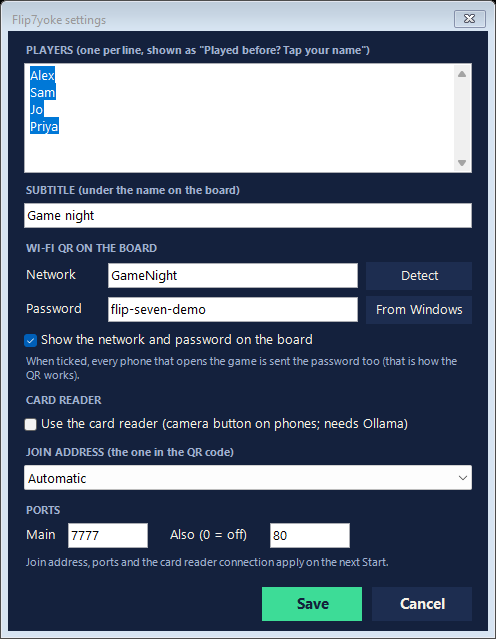
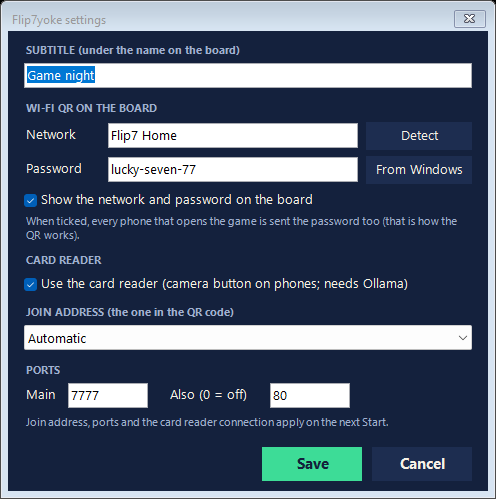
Played before? lists the people in saved games; no names setting

diff --git a/tests/game.test.js b/tests/game.test.js
@@ -235,12 +235,12 @@ test('store: a write that fails is reported, keeps the old file, and clears on t
 test('config: bad values fall back to defaults with a note; duplicates and port clashes handled', () => {
   const { validate, DEFAULTS } = require('../lib/config.js');
   const { config, notes } = validate({
-    players: ['Ryan', ' ryan ', '', 'Gareth', 42], subtitle: '  Thursday  ',
+    players: ['Alex', 'Sam'], subtitle: '  Thursday  ',
     wifi: { ssid: 'Home', password: 'pw', auth: 'WPA3', showOnBoard: 'yes' },
     cardReader: { enabled: 'maybe', url: 'ftp://x' }, network: { address: '300.1.1.1' },
     ports: { main: 8080, also: 8080 },
   });
-  assert.deepStrictEqual(config.players, ['Ryan', 'Gareth']);
+  assert.strictEqual(config.players, undefined); // an older file's list is ignored, without a note
   assert.strictEqual(config.subtitle, 'Thursday');
   assert.strictEqual(config.wifi.auth, 'WPA');
   assert.strictEqual(config.wifi.showOnBoard, true);
@@ -259,31 +259,58 @@ test('config: broken JSON keeps the last good settings; .env moves into config.j
   const c = openConfig(dir, { log: () => {}, watch: false });
   assert.strictEqual(c.config.wifi.ssid, 'Home');
   assert.ok(fs.existsSync(path.join(dir, '.env.migrated')) && !fs.existsSync(path.join(dir, '.env')));
-  fs.writeFileSync(c.file, JSON.stringify({ players: ['Rita'] }));
-  assert.deepStrictEqual(c.reload().players, ['Rita']);
-  fs.writeFileSync(c.file, '{ "players": [ "Rita", }');
+  fs.writeFileSync(c.file, JSON.stringify({ subtitle: 'Friday' }));
+  assert.strictEqual(c.reload().subtitle, 'Friday');
+  fs.writeFileSync(c.file, '{ "subtitle": "Sat", }');
   c.reload();
   assert.match(c.error, /config\.json has an error/);
-  assert.deepStrictEqual(c.config.players, ['Rita']);
+  assert.strictEqual(c.config.subtitle, 'Friday');
 });
 
-test('server: names, subtitle and Wi-Fi come from config.json and change live; Wi-Fi only when shown on board', async () => {
+test('server: subtitle and Wi-Fi come from config.json and change live; Wi-Fi only when shown on board', async () => {
   const dir = tmpDir();
-  fs.writeFileSync(path.join(dir, 'config.json'), JSON.stringify({ players: ['Carlo'], subtitle: 'Friday', wifi: { ssid: 'Home', password: 'pw', showOnBoard: false } }));
+  fs.writeFileSync(path.join(dir, 'config.json'), JSON.stringify({ players: ['Ignored'], subtitle: 'Friday', wifi: { ssid: 'Home', password: 'pw', showOnBoard: false } }));
   const g = await startGame(dir);
   try {
     let i = await (await fetch(g.url + '/api/info')).json();
-    assert.deepStrictEqual(i.names, ['Carlo']);
+    assert.deepStrictEqual(i.names, []); // no defaults: nobody has played yet
     assert.strictEqual(i.subtitle, 'Friday');
     assert.strictEqual(i.wifi, null);
     assert.strictEqual(i.reader, 'off');
     const before = (await getState(g.url)).configVersion;
-    fs.writeFileSync(path.join(dir, 'config.json'), JSON.stringify({ players: ['Carlo', 'Jarvis'], wifi: { ssid: 'Home', password: 'p;w' } }));
-    for (let n = 0; n < 40 && i.names.length < 2; n++) { await wait(100); i = await (await fetch(g.url + '/api/info')).json(); }
-    assert.deepStrictEqual(i.names, ['Carlo', 'Jarvis']);
+    fs.writeFileSync(path.join(dir, 'config.json'), JSON.stringify({ subtitle: 'Saturday', wifi: { ssid: 'Home', password: 'p;w' } }));
+    for (let n = 0; n < 40 && i.subtitle !== 'Saturday'; n++) { await wait(100); i = await (await fetch(g.url + '/api/info')).json(); }
+    assert.strictEqual(i.subtitle, 'Saturday');
     // open pages are told: the version in every update goes up, so they fetch /api/info again
     assert.ok((await getState(g.url)).configVersion > before);
     assert.strictEqual(i.wifi.qr, String.raw`WIFI:T:WPA;S:Home;P:p\;w;;`);
+  } finally { await g.stop(); }
+});
+
+test('server: "Played before?" names are the people in saved games, newest game first, and update live', async () => {
+  const dir = tmpDir();
+  const g = await startGame(dir);
+  const names = async () => (await (await fetch(g.url + '/api/info')).json()).names;
+  const play = async who => {
+    const ids = [];
+    for (const name of who) ids.push((await post(g.url, 'addPlayer', { name })).body.id);
+    for (const id of ids) await post(g.url, 'setEntry', { id, entry: { cards: [5], mods: [] } });
+    for (let n = 0; n < 40 && !(await getState(g.url)).rounds.length; n++) await wait(100);
+    await post(g.url, 'newGame', {});
+  };
+  try {
+    assert.deepStrictEqual(await names(), []);
+    await play(['Alex', 'Sam']);
+    let v = (await getState(g.url)).configVersion;
+    assert.deepStrictEqual((await names()).sort(), ['Alex', 'Sam']);
+    await play(['alex', 'Sam', 'Jo']); // New game keeps the players; "alex" is the same player as Alex
+    assert.ok((await getState(g.url)).configVersion > v); // open phones fetch the names again
+    assert.deepStrictEqual((await names()).sort(), ['Alex', 'Jo', 'Sam']); // each name once
+    const h = await (await fetch(g.url + '/api/history')).json();
+    v = (await getState(g.url)).configVersion;
+    await post(g.url, 'deleteHistory', { id: h[0].id });
+    assert.deepStrictEqual((await names()).sort(), ['Alex', 'Sam']);
+    assert.ok((await getState(g.url)).configVersion > v);
   } finally { await g.stop(); }
 });
 

diff --git a/tests/control-window.test.js b/tests/control-window.test.js
@@ -22,10 +22,12 @@ function selftest(dir, values) {
 
 test('Settings Save writes config.json that the server accepts as is', { skip: process.platform !== 'win32' }, () => {
   const dir = tmpDir();
-  const r = selftest(dir, { players: ['Ryan', 'Rita'], subtitle: 'Friday', ssid: 'Home', password: 'pw', showOnBoard: false, reader: false, main: 7790, also: 0 });
+  // An older file's players list is dropped on Save: the names offered come from saved games.
+  fs.writeFileSync(path.join(dir, 'config.json'), JSON.stringify({ players: ['Alex', 'Sam'], subtitle: 'Old' }));
+  const r = selftest(dir, { subtitle: 'Friday', ssid: 'Home', password: 'pw', showOnBoard: false, reader: false, main: 7790, also: 0 });
   assert.deepStrictEqual(r, { code: 0, out: 'SAVED' });
   const saved = JSON.parse(fs.readFileSync(path.join(dir, 'config.json'), 'utf8'));
-  assert.deepStrictEqual(saved.players, ['Ryan', 'Rita']); // a list even with PowerShell 5.1's JSON
+  assert.strictEqual(saved.players, undefined);
   assert.strictEqual(saved.subtitle, 'Friday');
   assert.deepStrictEqual(saved.wifi, { ssid: 'Home', password: 'pw', auth: 'WPA', showOnBoard: false });
   assert.strictEqual(saved.cardReader.enabled, false);
@@ -33,10 +35,10 @@ test('Settings Save writes config.json that the server accepts as is', { skip: p
   const { validate } = require('../lib/config.js');
   assert.deepStrictEqual(validate(saved).notes, []); // nothing the server would have to correct
 
-  const one = selftest(dir, { players: ['Solo'] });
-  assert.strictEqual(one.code, 0);
-  assert.deepStrictEqual(JSON.parse(fs.readFileSync(path.join(dir, 'config.json'), 'utf8')).players, ['Solo']);
-  assert.ok(fs.existsSync(path.join(dir, 'config.json.bak')));
+  const again = selftest(dir, { subtitle: 'Saturday' });
+  assert.strictEqual(again.code, 0);
+  assert.strictEqual(JSON.parse(fs.readFileSync(path.join(dir, 'config.json'), 'utf8')).subtitle, 'Saturday');
+  assert.strictEqual(JSON.parse(fs.readFileSync(path.join(dir, 'config.json.bak'), 'utf8')).subtitle, 'Friday');
 });
 
 // An installed copy: the exe and a version-stamped Flip7yoke.ps1 side by side, as the installer lays them out.
@@ -83,12 +85,11 @@ test('installed copy with its record missing: status still sees it, Stop ends it
   assert.strictEqual(ps(copy, 'stop').code, 0); // nothing left: a clean "stopped"
 });
 
-test('Settings Save refuses duplicate names and clashing ports, and leaves the file alone', { skip: process.platform !== 'win32' }, () => {
+test('Settings Save refuses clashing ports, and leaves the file alone', { skip: process.platform !== 'win32' }, () => {
   const dir = tmpDir();
-  fs.writeFileSync(path.join(dir, 'config.json'), JSON.stringify({ players: ['Keep'] }));
-  const r = selftest(dir, { players: ['Ryan', 'ryan'], main: 8000, also: 8000 });
+  fs.writeFileSync(path.join(dir, 'config.json'), JSON.stringify({ subtitle: 'Keep' }));
+  const r = selftest(dir, { subtitle: 'Changed', main: 8000, also: 8000 });
   assert.strictEqual(r.code, 1);
-  assert.match(r.out, /listed twice/);
   assert.match(r.out, /must be different/);
-  assert.deepStrictEqual(JSON.parse(fs.readFileSync(path.join(dir, 'config.json'), 'utf8')).players, ['Keep']);
+  assert.strictEqual(JSON.parse(fs.readFileSync(path.join(dir, 'config.json'), 'utf8')).subtitle, 'Keep');
 });

diff --git a/server.js b/server.js
@@ -87,7 +87,8 @@ async function start(options = {}) {
   const clients = new Set();
   const saveError = () => saveErrors.state || saveErrors.history || null;
   // What every page needs besides the game itself, sent with each update. configVersion goes up whenever
-  // config.json is reloaded, so open pages fetch /api/info again (names, subtitle, Wi-Fi) without a reload.
+  // config.json is reloaded or the saved games change, so open pages fetch /api/info again (past players'
+  // names, subtitle, Wi-Fi) without a reload.
   let configVersion = 1;
   // Set by the supervisor when it can't update server.pid.json (lib/supervisor.js), so the control window can say.
   let recordError = null;
@@ -103,7 +104,7 @@ async function start(options = {}) {
     broadcast();
   }
 
-  // Live settings: players, subtitle, Wi-Fi and the card reader on/off. The rest waits for the next Start.
+  // Live settings: subtitle, Wi-Fi and the card reader on/off. The rest waits for the next Start.
   function applyConfig() {
     reader.setEnabled(o.reader && C().cardReader.enabled !== false);
     broadcast();
@@ -133,6 +134,17 @@ async function start(options = {}) {
       })),
     });
     historyStore.save(history);
+    configVersion++; // the past players' names changed
+  }
+
+  // "Played before? Tap your name": everyone in a saved game, most recent game first, each name once.
+  function pastPlayers() {
+    const seen = new Set(), out = [];
+    for (const g of history) for (const p of g.players || []) {
+      const key = String(p.name).toLowerCase();
+      if (p.name && !seen.has(key)) { seen.add(key); out.push(p.name); }
+    }
+    return out;
   }
 
   const actions = {
@@ -196,7 +208,7 @@ async function start(options = {}) {
     deleteHistory({ id }) {
       const before = history.length;
       history = history.filter(g => g.id !== id);
-      if (history.length !== before) historyStore.save(history);
+      if (history.length !== before) { historyStore.save(history); configVersion++; }
     },
   };
 
@@ -303,7 +315,7 @@ async function start(options = {}) {
       return json(res, 200, {
         urls: lanUrls(), joinUrl: joinUrl(),
         addresses: join.all.map(a => ({ ...a, url: urlFor(a.address) })),
-        names: C().players, subtitle: C().subtitle, wifi: wifiInfo(C().wifi), reader: reader.state,
+        names: pastPlayers(), subtitle: C().subtitle, wifi: wifiInfo(C().wifi), reader: reader.state,
       }, { 'Cache-Control': 'no-cache' });
     }
     if (url === '/api/action' && req.method === 'POST') {

diff --git a/lib/config.js b/lib/config.js
@@ -8,7 +8,6 @@ const path = require('path');
 const VERSION = 1;
 const DEFAULTS = {
   version: VERSION,
-  players: [],
   subtitle: '',
   wifi: { ssid: '', password: '', auth: 'WPA', showOnBoard: true },
   cardReader: { enabled: 'auto', model: 'qwen3-vl:4b-instruct', url: 'http://127.0.0.1:11434' },
@@ -30,19 +29,7 @@ function validate(raw) {
   const bad = (key, why) => notes.push(`${key}: ${why}; using the default`);
   const sect = name => (isObj(raw[name]) ? raw[name] : (raw[name] !== undefined && bad(name, 'not an object'), {}));
 
-  if (raw.players !== undefined) {
-    if (!Array.isArray(raw.players)) bad('players', 'not a list');
-    else {
-      const seen = new Set();
-      for (const p of raw.players) {
-        const name = typeof p === 'string' ? p.trim().slice(0, 20) : '';
-        if (!name) continue;
-        if (seen.has(name.toLowerCase())) { notes.push(`players: "${name}" is listed twice; kept once`); continue; }
-        seen.add(name.toLowerCase());
-        c.players.push(name);
-      }
-    }
-  }
+  // (Older files have a "players" list. It's ignored: the names offered to phones are the people in saved games.)
   if (raw.subtitle !== undefined) {
     if (typeof raw.subtitle === 'string') c.subtitle = raw.subtitle.trim().slice(0, 60); else bad('subtitle', 'not text');
   }

diff --git a/docs/installer-spec.md b/docs/installer-spec.md
@@ -140,8 +140,7 @@ Replaces `.env` and the hard-coded values.
 ```json
 {
   "version": 1,
-  "players": ["Ryan", "Gareth", "Rossi"],
-  "subtitle": "Thursday game night",
+  "subtitle": "Game night",
   "wifi": { "ssid": "", "password": "", "auth": "WPA", "showOnBoard": true },
   "cardReader": { "enabled": "auto", "model": "qwen3-vl:4b-instruct", "url": "http://127.0.0.1:11434" },
   "network": { "address": "auto" },
@@ -155,7 +154,7 @@ Replaces `.env` and the hard-coded values.
 
 | Setting | Takes effect |
 |---|---|
-| `players`, `subtitle`, `wifi` | Live: the server re-reads `config.json` when it changes (`fs.watchFile` polling). **As built (audit round 4):** every update on `/events` carries a `configVersion` that goes up on each reload. Open pages fetch `/api/info` again when it changes, so names, subtitle, Wi-Fi and the join address update on a board that's already open. Checked in Chrome |
+| `subtitle`, `wifi` | Live: the server re-reads `config.json` when it changes (`fs.watchFile` polling). **As built (audit round 4):** every update on `/events` carries a `configVersion` that goes up on each reload. Open pages fetch `/api/info` again when it changes, so names, subtitle, Wi-Fi and the join address update on a board that's already open. Checked in Chrome |
 | `cardReader.enabled` | Live: switching it on runs a readiness check, switching it off hides the camera |
 | `cardReader.model`, `cardReader.url`, `network.address`, `ports` | On the next Start. The Settings panel says "Restart to apply" and offers a Restart button |
 
@@ -164,13 +163,14 @@ Replaces `.env` and the hard-coded values.
 - Bad JSON: keep running on the last good settings (or defaults on first start), log the line and column, and show "Settings file has an error" in the control window. The bad file is left alone for the user to fix or reset from Settings.
 - Bad values are replaced by their default, with a note in the log:
   - Ports must be whole numbers 1 to 65535, and `main` and `also` must differ (`also: 0` means off).
-  - Player names are trimmed and checked for duplicates case-insensitively, and blanks are dropped.
   - The card-reader URL must be `http://` or `https://`.
 - The Settings panel runs the same checks before saving, so most mistakes never reach the file.
 
 **Field notes:**
 
-- `players` replaces `REGULARS` in `server.js` (line 47). A new install starts empty, so the phone page asks for a name.
+- **No names setting (changed 6 Nov 2026, Ryan's call):** "Played before? Tap your name" lists everyone in a saved game, from the most recent game back, each name once. A new install has none, so the phone page asks for a name.
+  - The names replace `REGULARS` in `server.js` and the earlier `players` setting. An older `config.json` with `players` still loads; the list is ignored and dropped on the next Settings save.
+  - Saving or deleting a game bumps `configVersion`, so open phones fetch the names again.
 - `subtitle` replaces the "Thursday game night" text in `public/index.html`. It's served through `/api/info`, not baked into the page.
 - `config.json` is gitignored. The repo ships `config.example.json` with no personal data.
 - When it's written (by Settings or a migration), the previous copy is kept as `config.json.bak`.
@@ -542,7 +542,7 @@ Run on a Windows 11 VM with no Node or Ollama, unless a line says otherwise.
 - `LICENSE` (MIT), plus OFL for Big Shoulders and Barlow and MIT for qrcode-generator 1.4.4.
 - Disclaimer on the board footer, the README and the installer's first page: "Unofficial score keeper for Flip 7. Not affiliated with The Op." Our own design, with no card art from the published game.
 - The build produces `dist\Flip7yoke-Setup-<version>.exe` and its SHA-256, uploaded to GitHub Releases.
-- **Ask Ryan before making the repo or a release public.** Consider a fresh single-commit public repo. The only personal data in code today is `REGULARS`, which Stage 2 removes.
+- **Ask Ryan before making the repo or a release public.** Checked 6 Nov 2026: no Wi-Fi details, email, scores, photos or saved games anywhere in the history. Friends' first names appear in old code and as test data.
 
 ### Code signing
 
@@ -551,6 +551,5 @@ Later, if it's shared beyond friends: Azure Trusted Signing (about $10 a month).
 ## Open questions for Ryan
 
 - Name on the Start menu and installer: "Flip7yoke"?
-- Should a new install start with no players, or with example names?
 - Should the desktop shortcut be ticked by default? (Spec assumes yes.)
 - **Host PIN:** should New game, Delete history and Remove player need a PIN typed on the phone? Recommendation: no, at least for the friends release. Anyone at the table can already fix scores, the server is only reachable on Private networks, and the Host check covers the web-page route. A PIN adds a step on game night to guard against your own friends.

diff --git a/HANDOVER.md b/HANDOVER.md
@@ -5,7 +5,7 @@ Ryan owns this. Read **How Ryan wants you to work** before anything else.
 
 ## What it is
 
-A scorekeeper for Ryan's Thursday Flip 7 night (regulars: Ryan, Gareth, Rossi, Chris, Carlo, Jarvis, Rita).
+A scorekeeper for Ryan's Flip 7 game nights.
 
 - The PC shows a big scoreboard at `/board`, with QR codes for joining the Wi-Fi and opening the game.
 - Everyone opens the game on their phone over the home Wi-Fi, taps their name, and enters their own score each round. They can tap cards in as they are dealt, type a score, or **photograph their hand**, which a local vision model reads.
@@ -22,7 +22,7 @@ Repo: `github.com/Ryan-Clinton/flip7yoke` (private). Branch `main`. Ryan's rule 
 | Project files and git | **Windows** `C:\Projects\flip7yoke` | The WSL copy `/home/facepipe/flip7` is retired; don't edit it |
 | Score keeper | **Windows** Node v22.20.0 | `node run.js`: the supervisor (`lib/supervisor.js`) runs the server (`main.js --serve`) and restarts it on crashes and code changes. Data, settings and logs live in the project folder |
 | Control window `Flip7.ps1` | **Windows** PowerShell 5.1 WinForms | Desktop shortcut "Flip7yoke" (now points at `C:\Projects\flip7yoke\Flip7.ps1`) and `start.bat` |
-| Settings | `config.json` (gitignored) | Players, subtitle, Wi-Fi, card reader, join address, ports. Edit in the control window's Settings. `.env` was moved in and renamed `.env.migrated` |
+| Settings | `config.json` (gitignored) | Subtitle, Wi-Fi, card reader, join address, ports. There's no names setting: "Played before?" lists the people in saved games. Edit in the control window's Settings. `.env` was moved in and renamed `.env.migrated` |
 | Card reader | Ollama for Windows 0.40.14 (the tray app starts it at login), model `qwen3-vl:4b-instruct` on the GTX 1080 | Port 11434. The WSL Ollama is retired (stopped 5 Nov 2026) |
 | Board | Windows Chrome | `http://localhost:7777/board` |
 | Packaged exe | `dist\Flip7yoke-server.exe` (gitignored) | `npm install`, then `npm run build` |
@@ -53,7 +53,7 @@ The original plan is kept below for reference.
 - **`Install.ps1`:** winget Node LTS (+ Ollama optional), pull the model, add a firewall rule for node on Private networks, create the shortcut.
 - **README** with screenshots, MIT `LICENSE`, plus the licences for the bundled fonts (OFL: Big Shoulders, Barlow) and `qrcode.min.js` (qrcode-generator 1.4.4, MIT).
 - **Disclaimer:** "Unofficial score keeper for Flip 7. Not affiliated with The Op." The design is our own, inspired by the deck; don't use their card art.
-- **Release:** zip on GitHub Releases. **Ask Ryan before making the repo public.** Consider a fresh single-commit public repo. Git history is clean (checked: no `.env`, state, photos or logs were ever committed); the only personal data in code is `REGULARS`.
+- **Release:** zip on GitHub Releases. **Ask Ryan before making the repo public.** Consider a fresh single-commit public repo. Git history is clean (checked: no `.env`, state, photos or logs were ever committed). Friends' first names are in old code and test data.
 
 ## Files
 

diff --git a/README.md b/README.md
@@ -48,7 +48,6 @@ The installer isn't code-signed yet, so Windows doesn't recognise it and shows "
 
 **Settings** in the Flip7yoke window:
 
-- **Players:** the names offered under "Played before? Tap your name".
 - **Subtitle:** shown under the name on the board.
 - **Wi-Fi QR on the board:**
   - **Detect** fills in your network name.
@@ -58,7 +57,9 @@ The installer isn't code-signed yet, so Windows doesn't recognise it and shows "
 - **Join address:** "Automatic" picks the address on your home network. Choose one yourself if the QR code points somewhere phones can't reach, such as a VPN.
 - **Ports:** 7777, and also 80 so phones can use the address without a port number. If something else on your PC uses 80, Flip7yoke carries on with 7777.
 
-Names, subtitle, Wi-Fi and card reader on/off apply straight away, even on screens that are already open. Join address and ports apply on the next Start.
+Subtitle, Wi-Fi and card reader on/off apply straight away, even on screens that are already open. Join address and ports apply on the next Start.
+
+There's no list of player names to set up. Once a game is saved, everyone who played in it is offered under "Played before? Tap your name" on the phones.
 
 ![Settings](docs/images/settings-window.png)
 
